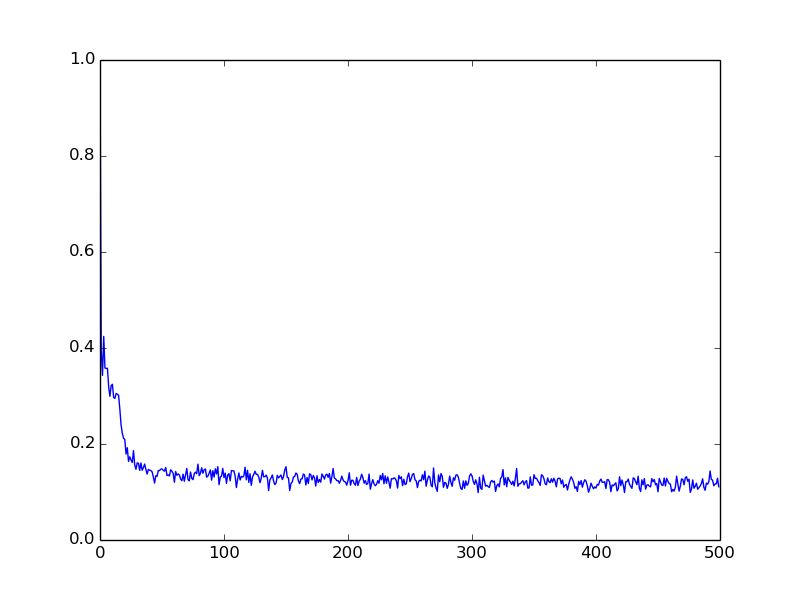
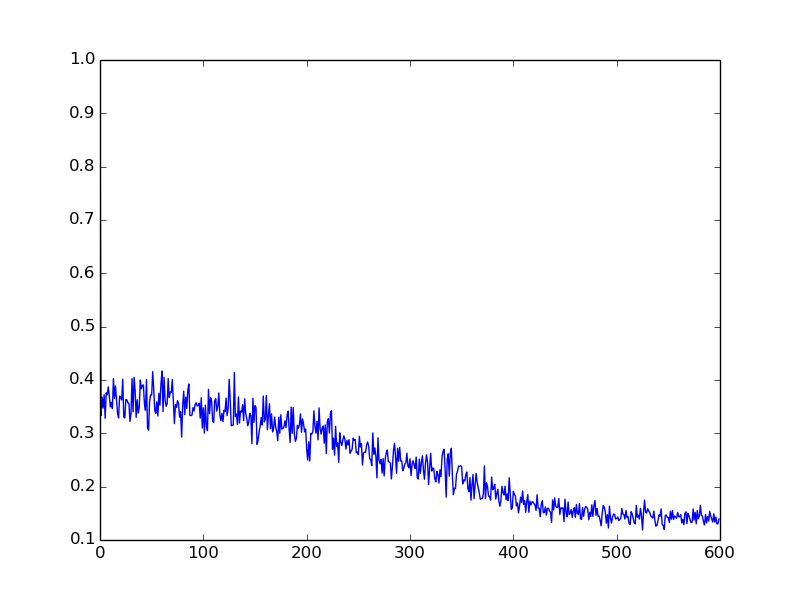
code for matrix mytiplication using RNN

diff --git a/RNN_forMatrix_mutiplication/mat_rnn.py b/RNN_forMatrix_mutiplication/mat_rnn.py
@@ -43,8 +43,12 @@ class RNN(object):
 					   non_sequences = [W_hh, W_uh, W_hy, b_hh])
  
 		y = T.dot(h[-1], W_hy) + b_hy
+		#y=y/y.sum()
+		#t=t/t.sum()
+		#cost =(t * T.log(y) + (1 - t) * T.log(1 - y)).mean().sum()
 		cost = ((t - y)**2).mean(axis=0).sum()
- 		gW_hh, gW_uh, gW_hy,\
+
+		gW_hh, gW_uh, gW_hy,\
 		   gb_hh, gb_hy = T.grad(
 			   cost, [W_hh, W_uh, W_hy, b_hh, b_hy])
  
@@ -67,23 +71,25 @@ class RNN(object):
 
 if __name__ == '__main__':
 	rnn = RNN(6, 20, 9)
-	lr = 0.1
+	lr = .01
+	
 	e = 1
 	vals = []
-	for i in xrange(int(5e5)):
+	for i in xrange(int(4e5)):
 		u=np.random.rand(3,3)
 		v=np.random.rand(3,3)
 		w=np.concatenate((u,v),axis=1)
 
 		t = (np.dot(u,v)).flatten()
-
+		 
 		c = rnn.train_step(w,t, lr)
+		
 		print "iteration {0}: {1}".format(i, np.sqrt(c))
 		e = 0.1*np.sqrt(c) + 0.9*e
 		if i % 1000 == 0:
 			vals.append(e)
 	plt.plot(vals)
-	plt.savefig('error_2.png')
+	plt.savefig('error_matrix_reversed.png')
 li=rnn.get_param()
 
 W_uh=li[1]

diff --git a/RNN_forMatrix_mutiplication/mat_rnn_test.py b/RNN_forMatrix_mutiplication/mat_rnn_test.py
@@ -67,12 +67,15 @@ if __name__ == '__main__':
 	for i in xrange(int(5)):
 		u=np.random.rand(3,3)
 		v=np.random.rand(3,3)
+		#u=np.array([[.1,.1,.1],[.2,.2,.2],[.3,.3,.3]])
+		#v=np.array([[.1,.1,.1],[.2,.2,.2],[.3,.3,.3]])
 		w=np.concatenate((u,v),axis=1)
 
 		t = (np.dot(u,v)).flatten()
 
 		c = rnn.train_step(w)
-		print "iteration {0} \n: {1} \n:{2}\n".format(i,t,c)
+		print "{0} \n: {1} ".format(t.reshape(3,3),c.reshape(3,3))
+		#print "{0}\n".format((t-c))
 		
 
 
